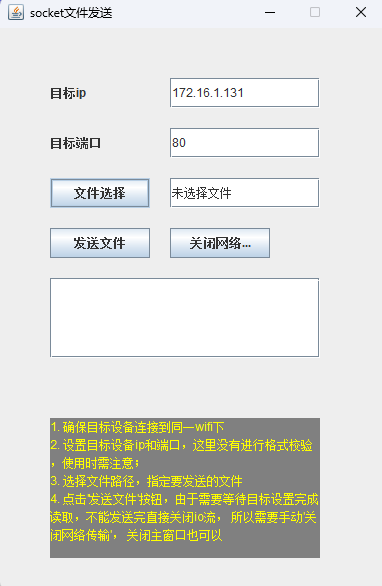
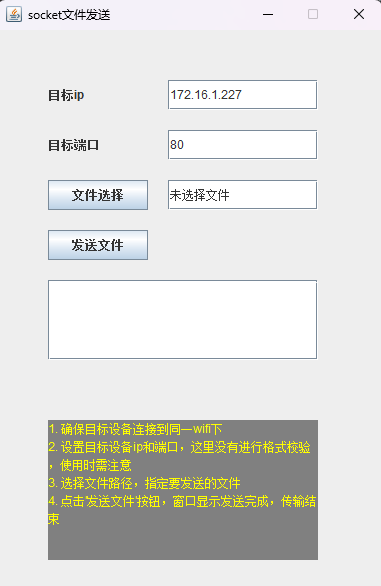
取消手动关闭io流

diff --git a/src/main/java/com/hch/file/SocketSend.java b/src/main/java/com/hch/file/SocketSend.java
@@ -16,12 +16,6 @@ public class SocketSend {
     // log输出组件
     private Consumer<String> logAppender;
 
-    // 本地文件流
-    private InputStream in;
-
-    // socket输出流
-    private OutputStream out;
-
     public void setLogAppender(Consumer<String> logAppender) {
         this.logAppender = logAppender;
         
@@ -45,7 +39,7 @@ public class SocketSend {
             System.out.printf("未知主机异常");
             e.printStackTrace();
         } catch (IOException e) {
-            logAppender.accept("io 异常");
+            logAppender.accept("io 异常,连接socket失败");
             e.printStackTrace();
         }
     }
@@ -60,52 +54,55 @@ public class SocketSend {
             logAppender.accept("连接到服务器");
 
 
-            in = new BufferedInputStream(new FileInputStream(filePath));
-            out = this.socket.getOutputStream();
+            InputStream in = new BufferedInputStream(new FileInputStream(filePath));
+            OutputStream out = this.socket.getOutputStream();
             byte[] buf = new byte[1024];
+            long fileSize = 0;
             int len = 0;
             while ((len = in.read(buf)) != -1) {
                 out.write(buf, 0, len);
+                fileSize += len;
                 logAppender.accept(new String(buf, 0, len, "utf-8"));
             }
+            // 最后发送结束标志
             byte[] endBytes = "\n###file EOF###\n".getBytes("utf-8");
+            fileSize += endBytes.length;
             out.write(endBytes, 0, endBytes.length);
             out.flush();
-            // 这里不仅io关闭，需要等待目标设置读取完成后，手动操作关闭
-
             
+            // 需要等待目标设置读取完成后，再关闭io
+            while (socket.getInputStream() == null) {
+                Thread.sleep(500);
+            }
+            // 接收远程响应
+            InputStream response = socket.getInputStream();
+            byte[] responseBytes = new byte[1024];
+            int readSize = response.read(responseBytes);
+            String responseContent = new String(responseBytes, 0, readSize, "utf-8");
+            logAppender.accept("远程响应内容：");
+            logAppender.accept(responseContent);
+            // 关闭io
+            in.close();
+            out.close();
+            // 关闭socket 
+            socket.close();
+            logAppender.accept("传输完成");
         } catch (IOException e) {
             logAppender.accept("io异常");
             e.printStackTrace();
-            return;
+        } catch (InterruptedException e) {
+            e.printStackTrace();
         }
 
         
     }
 
     /**
-     * socket及文件关闭操作
+     * socket关闭操作
      */
     public void closeSocket() {
 
         logAppender.accept("关闭网络");
-        if (in != null) {
-            try {
-                in.close();
-            } catch (IOException e) {
-                logAppender.accept("in关闭异常");
-                e.printStackTrace();
-            }
-        }
-
-        if (out != null) {
-            try {
-                out.close();
-            } catch (IOException e) {
-                logAppender.accept("out关闭异常");
-                e.printStackTrace();
-            }
-        }
 
         if (socket != null && !socket.isClosed()) {
             try {

diff --git a/src/main/java/com/hch/App.java b/src/main/java/com/hch/App.java
@@ -29,9 +29,9 @@ public class App
     }
 
     private String tipText = "1. 确保目标设备连接到同一wifi下 \n"
-        + "2. 设置目标设备ip和端口，这里没有进行格式校验，使用时需注意；\n"
+        + "2. 设置目标设备ip和端口，这里没有进行格式校验，使用时需注意 \n"
         + "3. 选择文件路径，指定要发送的文件 \n"
-        + "4. 点击'发送文件'按钮，由于需要等待目标设置完成读取，不能发送完直接关闭io流， 所以需要手动'关闭网络传输'， 关闭主窗口也可以 \n";
+        + "4. 点击'发送文件'按钮，窗口显示发送完成，传输结束 \n";
 
     private int posX = 30;
     private int posY = 30;
@@ -67,7 +67,7 @@ public class App
         JLabel ipLabel = new JLabel("目标ip");
         
 
-        JTextField ipInput = new JTextField("172.16.1.131", 20);
+        JTextField ipInput = new JTextField("172.16.1.227", 20);
         
 
         JLabel portLabel = new JLabel("目标端口");
@@ -106,9 +106,6 @@ public class App
         JButton sendBtn = new JButton("发送文件");
         
 
-        JButton closeSocket = new JButton("关闭网络传输");
-        
-
         sendBtn.addActionListener(e -> {
             String filePath = sendText.getText().trim();
             if ("".equals(filePath) || sendText.getText().equals("未选择文件")) {
@@ -121,9 +118,6 @@ public class App
                     );
                 socketSend.sendFileToRemote(filePath);
 
-                // 关闭socket
-                closeSocket.addActionListener(l -> socketSend.closeSocket());
-                jf.addWindowListener(new CloseHandler(socketSend::closeSocket));
             }
         });
 
@@ -144,7 +138,6 @@ public class App
         panel.add(fileBtn);
         panel.add(sendText);
         panel.add(sendBtn);
-        panel.add(closeSocket);
         panel.add(scroll);
         panel.add(tip);
 
@@ -158,7 +151,6 @@ public class App
         fileBtn.setBounds(getPosX(), addPosY(), 100, 30);
         sendText.setBounds(marginPosX(), getPosY(), 150, 30);
         sendBtn.setBounds(getPosX(), addPosY(), 100, 30);
-        closeSocket.setBounds(marginPosX(), getPosY(), 100, 30);
         actionLogText.setBounds(getPosX(), addPosY(), 200, 80);
         scroll.setBounds(getPosX(), getPosY(), 270, 80);
         tip.setBounds(getPosX(), getPosY() + 140, 270, 140);
@@ -174,21 +166,5 @@ public class App
         jf.setDefaultCloseOperation(JFrame.EXIT_ON_CLOSE);
     }
 
-    /**
-     * 防止未关闭socket，在关闭程序的时候操作一次
-     */
-    private static class CloseHandler extends WindowAdapter {
-
-        private Runnable closeOp;
-
-        public CloseHandler(Runnable closeOp) {
-            this.closeOp = closeOp;
-
-        }
-
-        public void windowClosing(final WindowEvent event) {
-            closeOp.run();
-        }
-    }
 
 }

diff --git a/README.MD b/README.MD
@@ -5,4 +5,4 @@
     * 确保目标设备连接到同一wifi下 
     * 设置目标设备ip和端口，这里没有进行格式校验，使用时需注意
     * 选择文件路径，指定要发送的文件 
-    * 点击'发送文件'按钮，由于需要等待目标设置完成读取，不能发送完直接关闭io流， 所以需要手动'关闭网络传输'， 关闭主窗口也可以     
+    * 点击'发送文件'按钮，窗口显示发送完成，传输结束      
